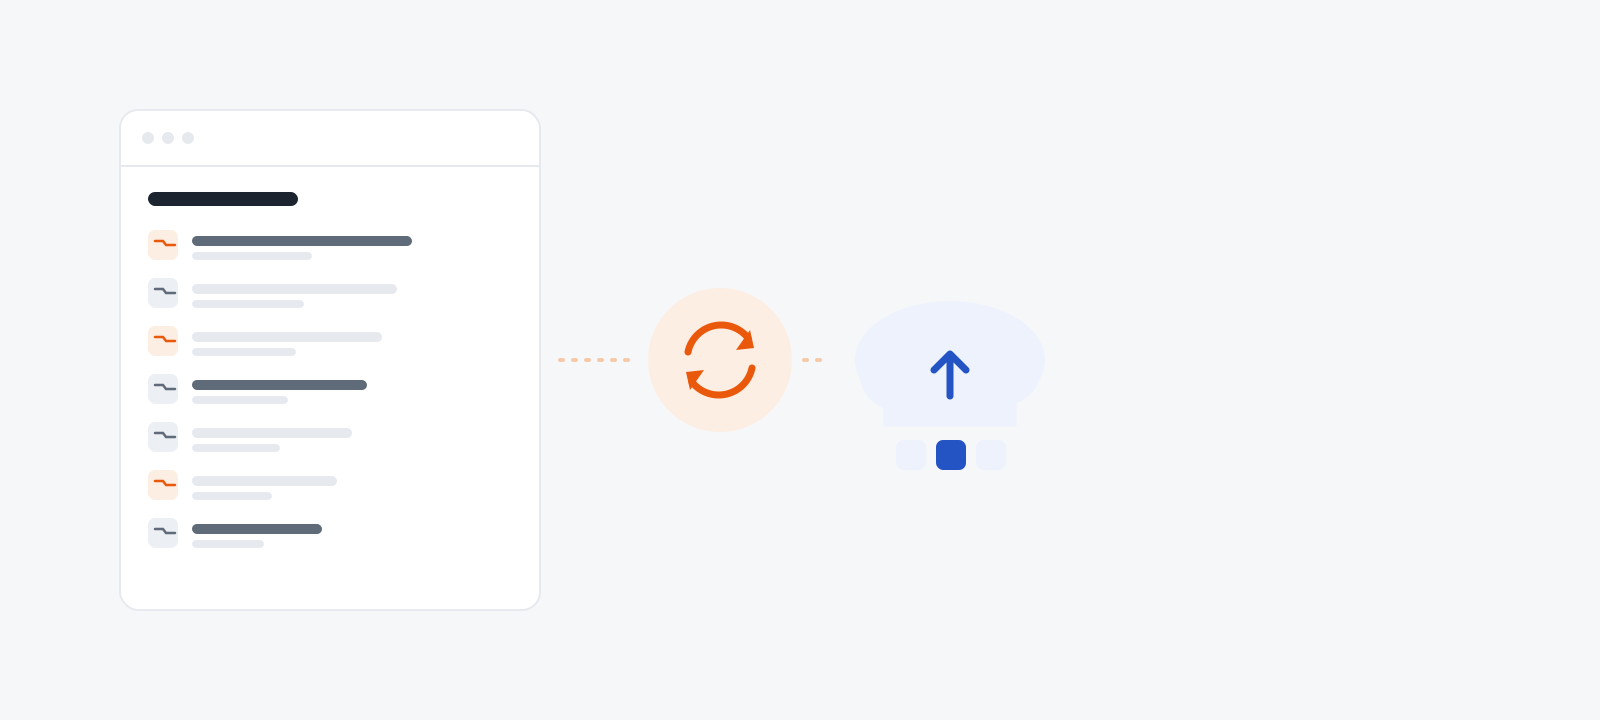
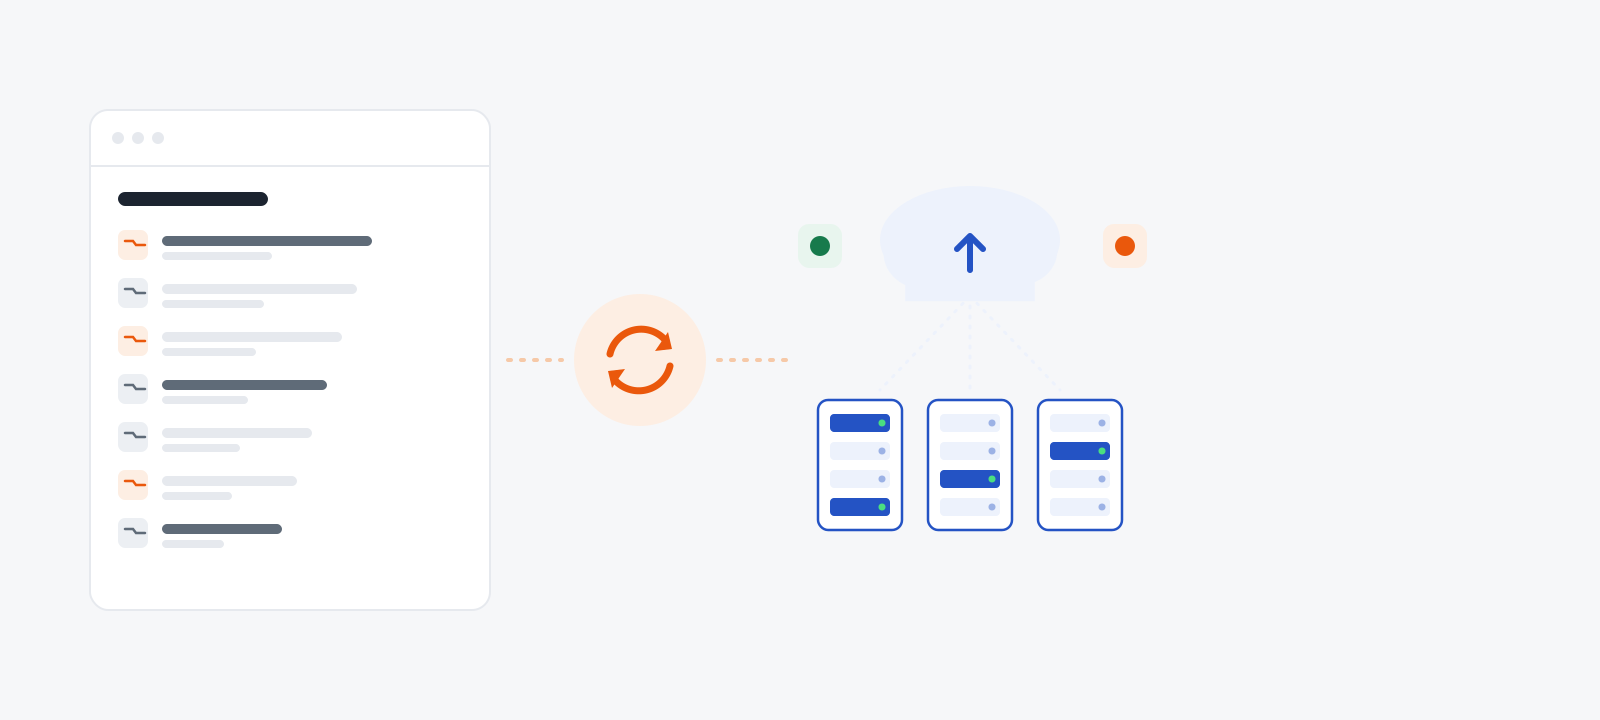
demo: home section spacers + richer home-hero image
- Home: added vertical spacers between sections (providers -> hero image, hero ->
  features, features -> why, why -> pricing, pricing -> final CTA) — as
  <div class="tallyst-spacer"> nodes (not the [spacer] non-shortcode). More air
  between the landing sections.
- New richer home-hero illustration (fuller cloud/server side), same media key.
- Reseeded with --fresh: the h6 eyebrows now survive (schema fix), spacers render
  as divs, 20 committed PNGs intact (Vich move safe), 0 literal shortcodes.

Claude-Session: https://claude.ai/code/session_01UPF2UZbrpbdvBCmXQsQNoN

diff --git a/src/Command/DemoSeedCommand.php b/src/Command/DemoSeedCommand.php
@@ -726,7 +726,11 @@ class DemoSeedCommand extends Command
             <p style="text-align:center"><a class="tallyst-btn tallyst-btn--primary" href="/buy">Download — 15-day free trial</a> <a class="tallyst-btn tallyst-btn--secondary" href="#pricing">See pricing</a></p>
             <p style="text-align:center">Windows 10 &amp; 11 · Backblaze B2 · Amazon S3 · Wasabi · Cloudflare R2 · local disk</p>
 
+            <div class="tallyst-spacer tallyst-spacer--md"></div>
+
             [image id={$homeHero} size=full align=center alt="The Arca app showing a backup in progress"]
+
+            <div class="tallyst-spacer tallyst-spacer--lg"></div>
 
             <h6 style="text-align:center">Features</h6>
             <h2 class="display-2" style="text-align:center">Everything a serious backup needs</h2>
@@ -743,10 +747,14 @@ class DemoSeedCommand extends Command
             <div class="tallyst-column"><p>[icon name=euro]</p><h3>No subscription</h3><p>Pay once, use it forever. No monthly bills.</p></div>
             </div>
 
+            <div class="tallyst-spacer tallyst-spacer--lg"></div>
+
             <div class="tallyst-columns" data-columns="2">
             <div class="tallyst-column">[image id={$featuresFlow} size=medium align=center alt="Files split into chunks and sent to the cloud"]</div>
             <div class="tallyst-column"><h3>Why Arca?</h3><p>Most backup tools want a subscription and your data on their servers. Arca is the opposite: the app is yours, the keys are yours, and storage is wherever you decide. The chunk format means an interrupted transfer picks up exactly where it stopped — even on a slow connection.</p><p><a class="tallyst-btn tallyst-btn--ghost" href="/docs">How it works [icon name=arrow-right]</a></p></div>
             </div>
+
+            <div class="tallyst-spacer tallyst-spacer--lg"></div>
 
             <h6 id="pricing" style="text-align:center">Pricing</h6>
             <h2 class="display-2" style="text-align:center">Try everything — pay once</h2>
@@ -756,6 +764,8 @@ class DemoSeedCommand extends Command
             <div class="tallyst-column"><h3>Trial</h3><p><strong style="font-size:1.8em">€0</strong></p><p>15 days, every feature</p><ul><li>[icon name=check] Full functionality</li><li>[icon name=check] Local and cloud backup</li><li>[icon name=check] No card to try</li></ul><p><a class="tallyst-btn tallyst-btn--secondary" href="/buy">Download free</a></p></div>
             <div class="tallyst-column tallyst-column--highlight"><h6>Most popular</h6><h3>Pro</h3><p><strong style="font-size:1.8em">€29</strong> once</p><p>Lifetime license, no subscription</p><ul><li>[icon name=check] Everything in Trial, forever</li><li>[icon name=check] Database backups (MySQL, PostgreSQL)</li><li>[icon name=check] Free updates</li></ul><p><a class="tallyst-btn tallyst-btn--primary" href="/buy">Buy Pro — €29</a></p></div>
             </div>
+
+            <div class="tallyst-spacer tallyst-spacer--lg"></div>
 
             <h2 class="display-2" style="text-align:center">Ready for your first backup?</h2>
             <p style="text-align:center">Download Arca and you'll have your first safe snapshot in three minutes.</p>